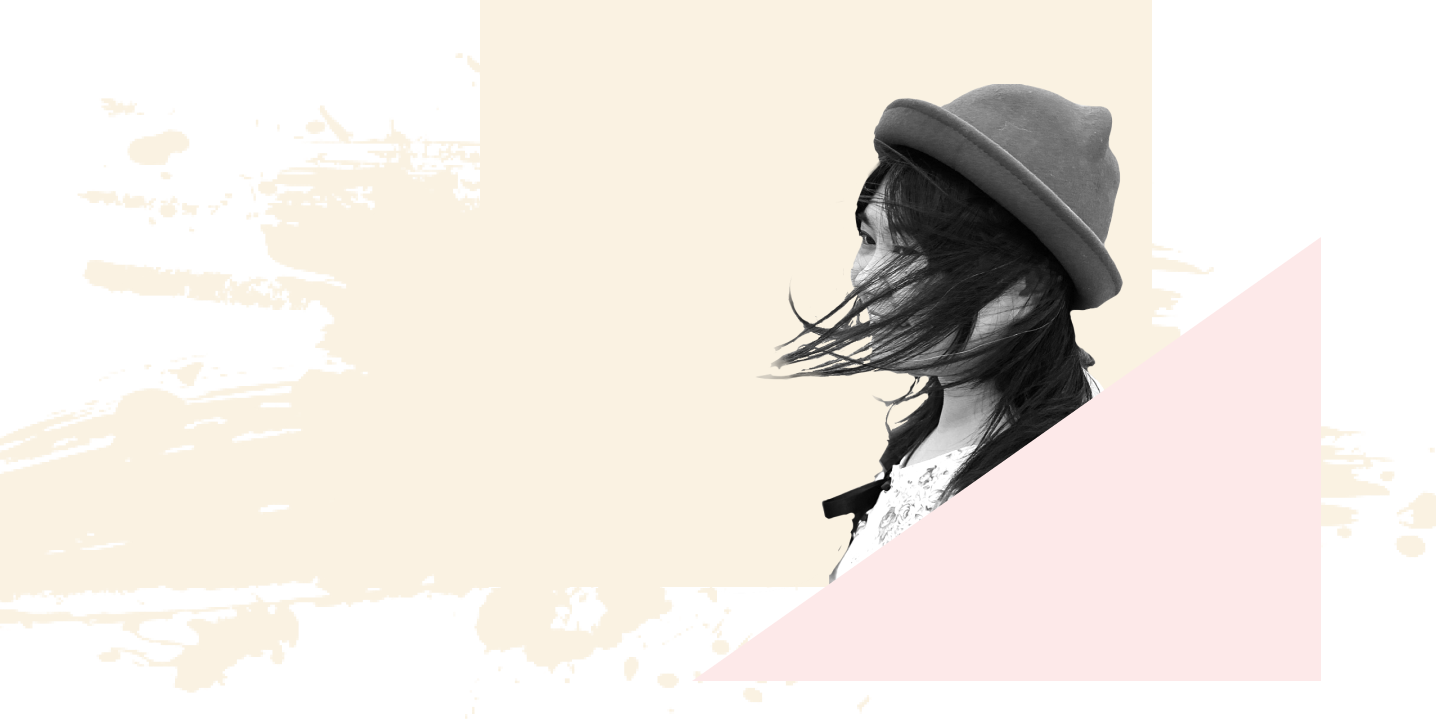
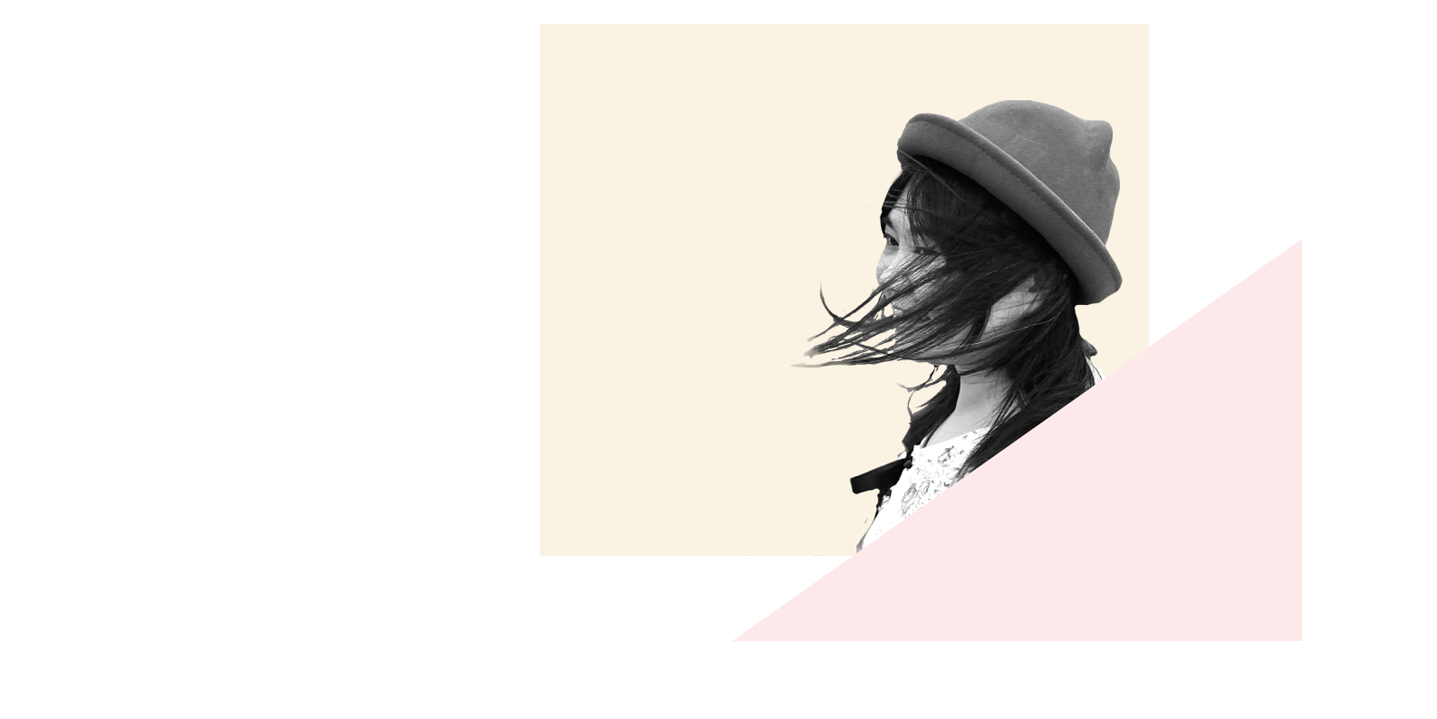
update: Landing image & Panel alignment

diff --git a/index.html b/index.html
@@ -51,7 +51,7 @@
           <p class="landing-text03">
             A multimedia specialist that is active in Singapore and London.
           </p>
-          <a class="landing-button uk-button uk-button-default" href="/subpage.html">Learn more</a>
+          <a class="landing-button uk-button uk-button-default" href="subpage.html">Learn more</a>
         </div>
 
         <!-- <img src="img/deco_mark01.png" alt="">
@@ -69,102 +69,56 @@
           </ul>
         </div>
       </nav>
-      <div id="test" class="uk-background-top-right uk-background-contain uk-panel uk-flex uk-flex-middle uk-flex-center" uk-height-viewport>
-        <!-- <ul id="galler-right" class="uk-slider-items uk-child-width-1-2 uk-child-width-1-3@m">
-          <li class="uk-transition-toggle" tabindex="0">
-              <img src="https://via.placeholder.com/513x350" alt="">
-              <div class="uk-position-center uk-panel"><h1 class="uk-transition-slide-bottom-small">1</h1"></div>
-          </li>
-          <li class="uk-transition-toggle" tabindex="0">
-              <img src="https://via.placeholder.com/513x350" alt="">
-              <div class="uk-position-center uk-panel"><h1 class="uk-transition-slide-bottom-small">2</h1"></div>
-          </li>
-          <li class="uk-transition-toggle" tabindex="0">
-              <img src="https://via.placeholder.com/513x350" alt="">
-              <div class="uk-position-center uk-panel"><h1 class="uk-transition-slide-bottom-small">3</h1"></div>
-          </li>
-          <li class="uk-transition-toggle" tabindex="0">
-              <img src="https://via.placeholder.com/513x350" alt="">
-              <div class="uk-position-center uk-panel"><h1 class="uk-transition-slide-bottom-small">4</h1"></div>
-          </li>
-          <li class="uk-transition-toggle" tabindex="0">
-              <img src="https://via.placeholder.com/513x350" alt="">
-              <div class="uk-position-center uk-panel"><h1 class="uk-transition-slide-bottom-small">5</h1"></div>
-          </li>
-          <li class="uk-transition-toggle" tabindex="0">
-              <img src="https://via.placeholder.com/513x350" alt="">
-              <div class="uk-position-center uk-panel"><h1 class="uk-transition-slide-bottom-small">6</h1"></div>
-          </li>
-          <li class="uk-transition-toggle" tabindex="0">
-              <img src="https://via.placeholder.com/513x350" alt="">
-              <div class="uk-position-center uk-panel"><h1 class="uk-transition-slide-bottom-small">7</h1"></div>
-          </li>
-          <li class="uk-transition-toggle" tabindex="0">
-              <img src="https://via.placeholder.com/513x350" alt="">
-              <div class="uk-position-center uk-panel"><h1 class="uk-transition-slide-bottom-small">8</h1"></div>
-          </li>
-          <li class="uk-transition-toggle" tabindex="0">
-              <img src="https://via.placeholder.com/513x350" alt="">
-              <div class="uk-position-center uk-panel"><h1 class="uk-transition-slide-bottom-small">9</h1"></div>
-          </li>
-          <li class="uk-transition-toggle" tabindex="0">
-              <img src="https://via.placeholder.com/513x350" alt="">
-              <div class="uk-position-center uk-panel"><h1 class="uk-transition-slide-bottom-small">10</h1"></div>
-          </li>
-      </ul>
-
-      <a class="uk-position-center-left uk-position-small uk-hidden-hover" href="#" uk-slidenav-previous uk-slider-item="previous"></a>
-      <a class="uk-position-center-right uk-position-small uk-hidden-hover" href="#" uk-slidenav-next uk-slider-item="next"></a> -->
-      </div>
+ 
     </div>
 
     <!--=== Panel 2 ===-->
-    <div id="Right" class="sectionOutline" uk-height-viewport>
+    <div id="Right" class="sectionOutline uk-flex uk-flex-middle" uk-height-viewport>
       <!-- slider -->
       <div id="swap" class="transition-fade">
         <div class="uk-position-relative uk-visible-toggle uk-light" tabindex="-1" uk-slider="autoplay-interval: 1000; pause-on-hover: true">
 
           <ul id="galler-right" class="uk-slider-items uk-child-width-1-2 uk-child-width-1-3@m">
               <li class="uk-transition-toggle" tabindex="0">
-                <a href="/subpage.html">
-                  <img src="https://via.placeholder.com/513x350" alt="">
+                <a href="subpage.html">
+                  <img src="https://via.placeholder.com/513x750" alt="">
                   <div class="uk-position-center uk-panel"><h1 class="uk-transition-slide-bottom-small">1</h1"></div>
                 </a>
               </li>
               <li class="uk-transition-toggle" tabindex="0">
-                  <img src="https://via.placeholder.com/513x350" alt="">
+                  <img src="https://via.placeholder.com/513x750" alt="">
                   <div class="uk-position-center uk-panel"><h1 class="uk-transition-slide-bottom-small">2</h1"></div>
               </li>
               <li class="uk-transition-toggle" tabindex="0">
-                  <img src="https://via.placeholder.com/513x350" alt="">
+                  <img src="https://via.placeholder.com/513x750" alt="">
                   <div class="uk-position-center uk-panel"><h1 class="uk-transition-slide-bottom-small">3</h1"></div>
               </li>
               <li class="uk-transition-toggle" tabindex="0">
-                  <img src="https://via.placeholder.com/513x350" alt="">
+                  <img src="https://via.placeholder.com/513x750" alt="">
                   <div class="uk-position-center uk-panel"><h1 class="uk-transition-slide-bottom-small">4</h1"></div>
               </li>
               <li class="uk-transition-toggle" tabindex="0">
-                  <img src="https://via.placeholder.com/513x350" alt="">
+                  <img src="https://via.placeholder.com/513x750" alt="">
                   <div class="uk-position-center uk-panel"><h1 class="uk-transition-slide-bottom-small">5</h1"></div>
               </li>
               <li class="uk-transition-toggle" tabindex="0">
-                  <img src="https://via.placeholder.com/513x350" alt="">
+                  <img src="https://via.placeholder.com/513x750" alt="">
                   <div class="uk-position-center uk-panel"><h1 class="uk-transition-slide-bottom-small">6</h1"></div>
               </li>
               <li class="uk-transition-toggle" tabindex="0">
-                  <img src="https://via.placeholder.com/513x350" alt="">
+                  <img src="https://via.placeholder.com/513x750" alt="">
                   <div class="uk-position-center uk-panel"><h1 class="uk-transition-slide-bottom-small">7</h1"></div>
               </li>
               <li class="uk-transition-toggle" tabindex="0">
-                  <img src="https://via.placeholder.com/513x350" alt="">
+                  <img src="https://via.placeholder.com/513x750" alt="">
                   <div class="uk-position-center uk-panel"><h1 class="uk-transition-slide-bottom-small">8</h1"></div>
               </li>
               <li class="uk-transition-toggle" tabindex="0">
-                  <img src="https://via.placeholder.com/513x350" alt="">
+                  <img src="https://via.placeholder.com/513x750" alt="">
                   <div class="uk-position-center uk-panel"><h1 class="uk-transition-slide-bottom-small">9</h1"></div>
               </li>
               <li class="uk-transition-toggle" tabindex="0">
-                  <img src="https://via.placeholder.com/513x350" alt="">
+                  <img src="https://via.placeholder.com/513x750" alt="">
                   <div class="uk-position-center uk-panel"><h1 class="uk-transition-slide-bottom-small">10</h1"></div>
               </li>
           </ul>

diff --git a/js/main.js b/js/main.js
@@ -3,15 +3,10 @@ gsap.registerPlugin(ScrollTrigger);
 /*=========================
   Landing Panel
   =========================*/
-gsap.from(
-  "#landing-hero",
-  {
-    opacity: 0,
-    x: -20,
-    duration: 0.5,
-  },
-  3
-);
+gsap.from("#landing-hero", {
+  opacity: 0,
+  duration: 1.5,
+});
 
 let tl = gsap.timeline();
 
@@ -22,42 +17,22 @@ tl.from("#landingPg", {
   ease: "expo.out",
 })
   .from(
-    ".landing-text01",
+    [".landing-text01", ".landing-text02", ".landing-text03"],
     {
       opacity: 0,
-      y: 20,
-      duration: 1,
-      ease: "back.out",
+      translateY: 50,
+      duration: 1.5,
     },
-    "+=0.5"
+    "+=1"
   )
-  .from(
-    ".landing-text02",
-    {
-      opacity: 0,
-      y: 20,
-      duration: 1,
-      ease: "back.out",
-    },
-    "-=0.2"
-  )
-  .from(
-    ".landing-text03",
-    {
-      opacity: 0,
-      duration: 1,
-      ease: "back.out",
-    },
-    "+=0.2"
-  )
+
   .from(
     ".landing-button",
     {
       opacity: 0,
-      duration: 1,
-      ease: "back.out",
+      duration: 1.5,
     },
-    "+=0.2"
+    "+=0"
   );
 /*=========================
   Last Panel

diff --git a/css/main.css b/css/main.css
@@ -229,9 +229,9 @@ pre {
 .uk-button {
   padding: 0 20px !important;
 }
-/* ------------ */
-/* Last section */
-/* ------------ */
+/* ------------------------ */
+/* Animation Last section   */
+/* ------------------------ */
 .bounce {
   transition: all 0.8s;
 }
